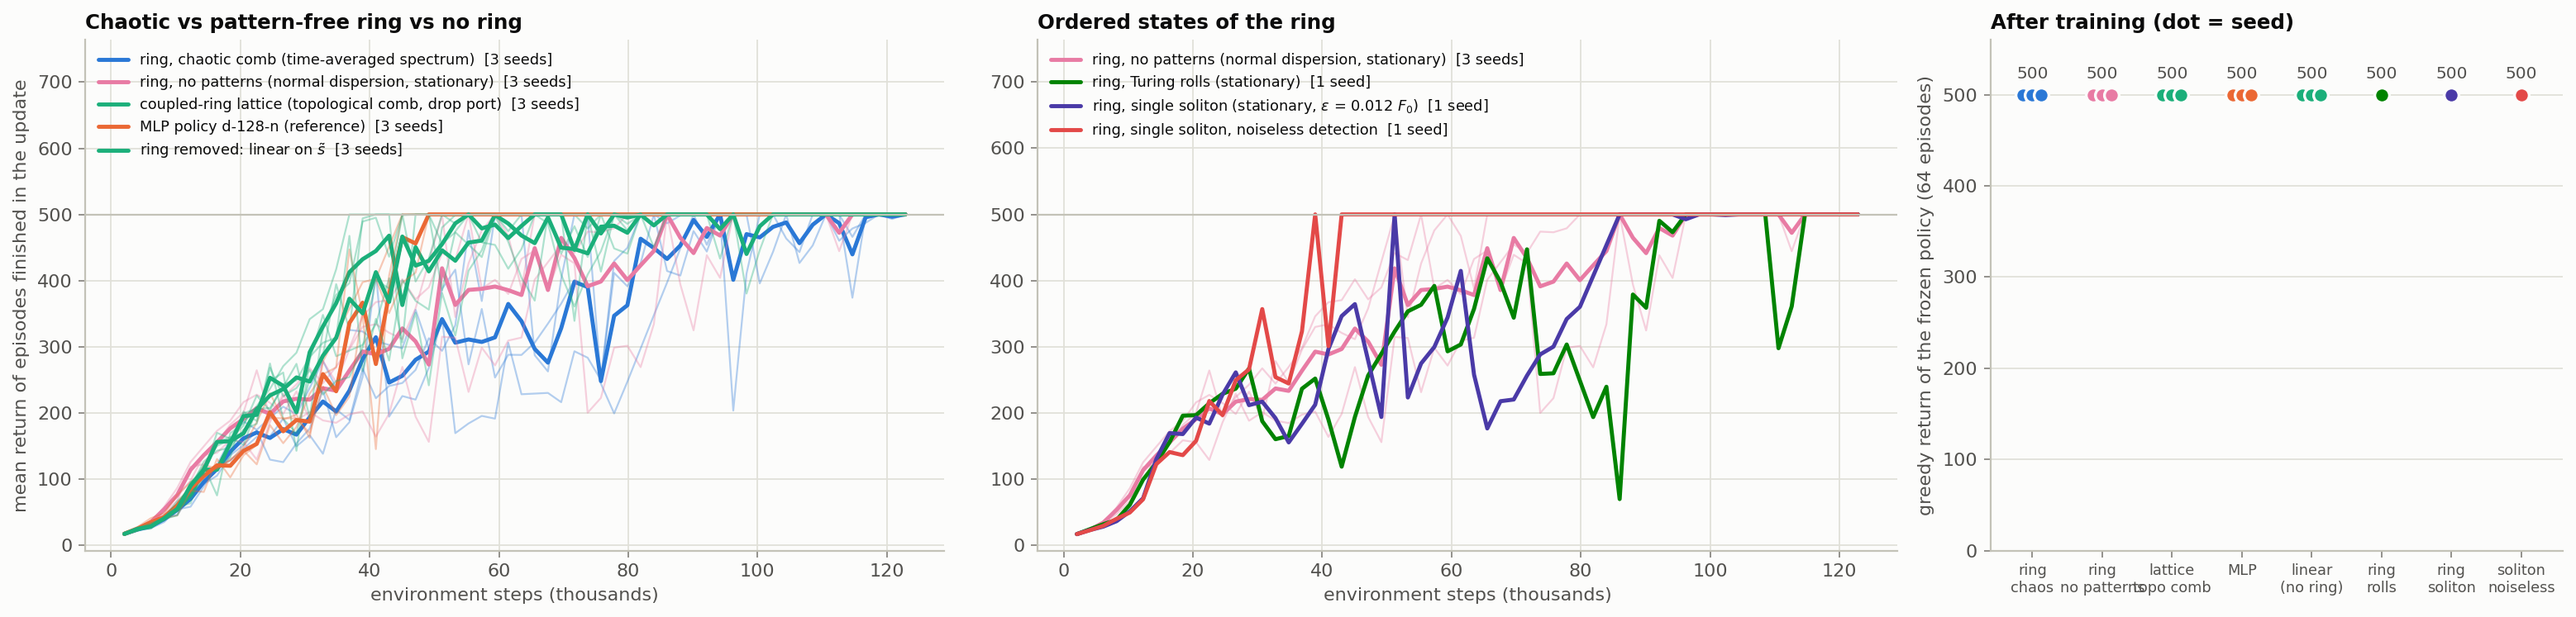
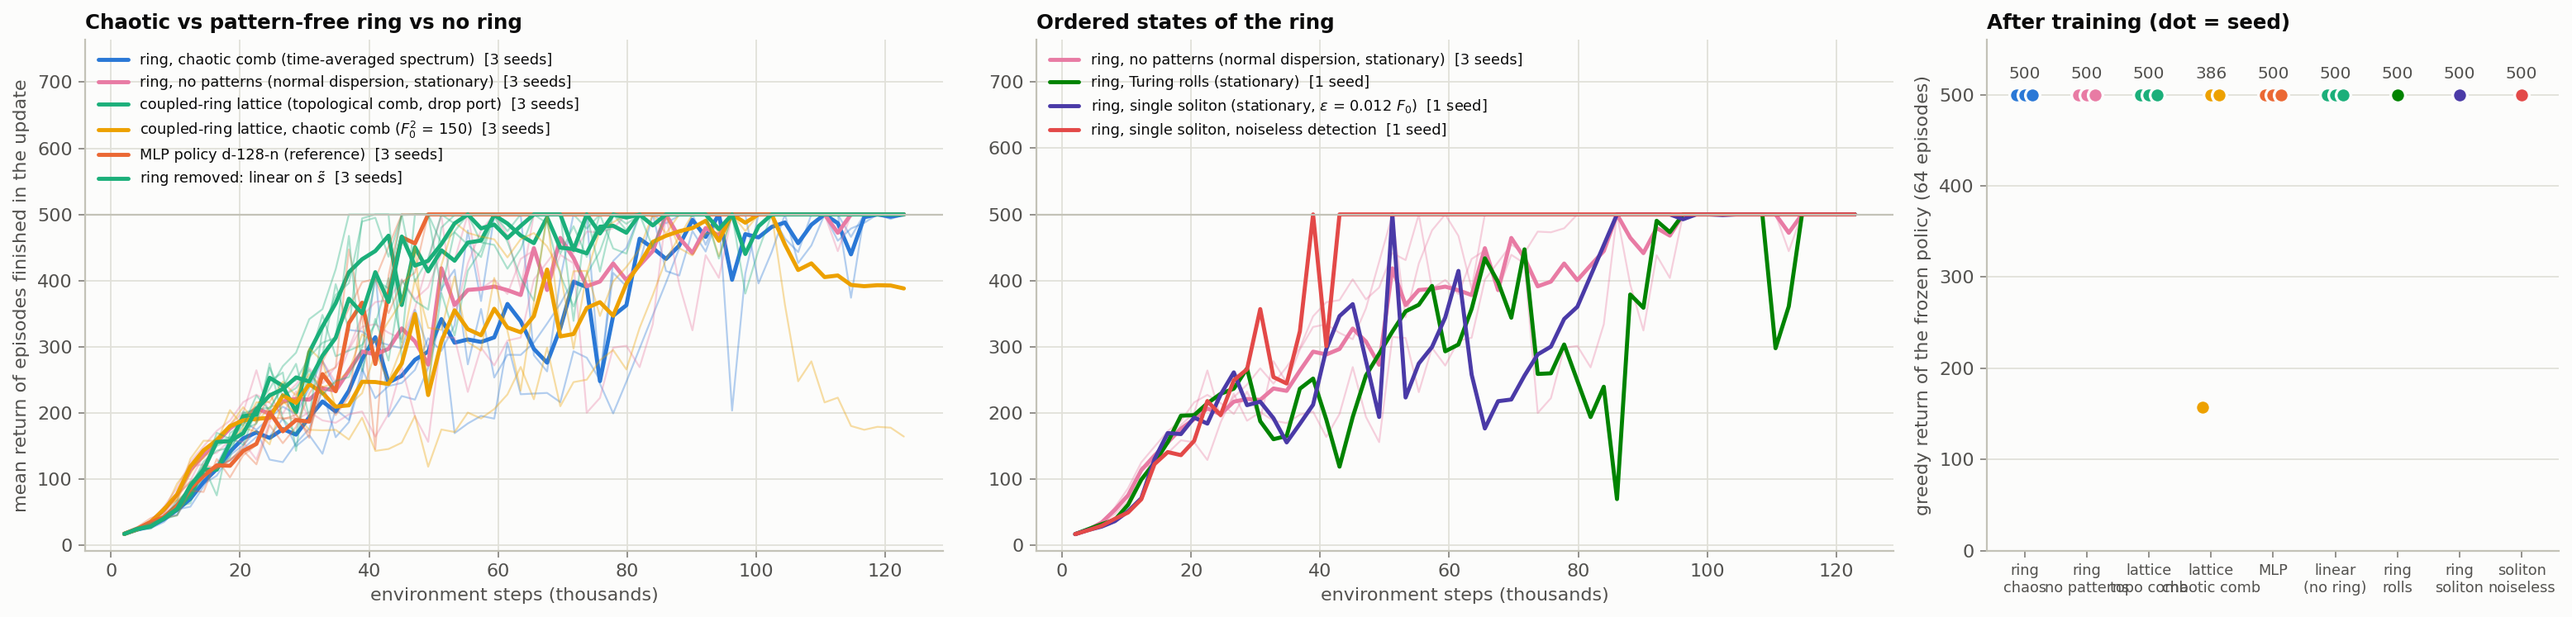
topo_chaos results: the self-generated chaotic comb solves CartPole 2/3 seeds
Frozen greedy evaluations: seeds 1 and 2 at 500.0 +- 0.0, seed 0 an outlier at
157 +- 9 (tight band: a readout defect of that seed, not chaos noise -- the
training return reached 500 on all three). animate_topo.py gains --regime
topo|topo_chaos; chaotic-comb episode animation tracked (its ring-power
deviations span +-25% vs +-2% below threshold).

diff --git a/animate_topo.py b/animate_topo.py
@@ -40,7 +40,8 @@ MAX_STEPS = {"CartPole-v1": 500, "Pendulum-v1": 200, "LunarLander-v3": 1000}
 
 p = argparse.ArgumentParser()
 p.add_argument("--env", choices=list(READOUT_HALFWIDTH), default="CartPole-v1")
-p.add_argument("--seed", type=int, default=0, help="which mr_topo training seed's checkpoint to load")
+p.add_argument("--regime", choices=["topo", "topo_chaos"], default="topo")
+p.add_argument("--seed", type=int, default=0, help="which training seed's checkpoint to load")
 p.add_argument("--ep-seed", type=int, default=7, help="episode seed")
 p.add_argument("--out", type=str, default=None, help=".gif (Pillow) or .mp4/.webm/.mov (ffmpeg); "
                "default results/ppo/<Env>/topo_<env>.gif")
@@ -48,13 +49,13 @@ p.add_argument("--every", type=int, default=3, help="render every n-th control s
 p.add_argument("--fps", type=int, default=12)
 args = p.parse_args()
 short = args.env.split("-")[0]
-out = args.out or f"results/ppo/{short}/topo_{short.lower()}.gif"
+out = args.out or f"results/ppo/{short}/{args.regime}_{short.lower()}.gif"
 
 # ---------------------------------------------------------------- trained policy + lattice
-c = torch.load(f"results/ppo/{short}/checkpoints/mr_topo_seed{args.seed}.pt", weights_only=False)
+c = torch.load(f"results/ppo/{short}/checkpoints/mr_{args.regime}_seed{args.seed}.pt", weights_only=False)
 task = TASKS[args.env]
 hw = READOUT_HALFWIDTH[args.env]
-ring, cfg = make_ring("topo", 1, task["obs_scale"], seed=args.seed, squash=task["squash"],
+ring, cfg = make_ring(args.regime, 1, task["obs_scale"], seed=args.seed, squash=task["squash"],
                       feature_modes=list(range(-hw, hw + 1)))
 assert ring.n_features == c["policy"]["mean"].shape[0], "feature layout differs from the checkpoint"
 ring.a = c["ring_a"][:1].clone()                    # one lane of the persistent trained lattice
@@ -186,7 +187,8 @@ PANELS = {"CartPole-v1": panel_cartpole, "Pendulum-v1": panel_pendulum, "LunarLa
 frames = range(0, T, args.every)
 fig, (ax_task, ax_lat, ax_comb) = plt.subplots(
     1, 3, figsize=(11.5, 3.6), gridspec_kw=dict(width_ratios=[1.35, 1.0, 1.1]))
-fig.suptitle(f"Topological frequency comb (4×4 Hafezi lattice) as the {short} policy",
+kind = "chaotic topological comb" if args.regime == "topo_chaos" else "topological frequency comb"
+fig.suptitle(f"{kind.capitalize()} (4×4 Hafezi lattice) as the {short} policy",
              x=0.02, ha="left", fontsize=12, fontweight="semibold")
 draw_task = PANELS[args.env](ax_task)
 ax_task.set_title("the task: greedy trained policy", fontsize=10)
